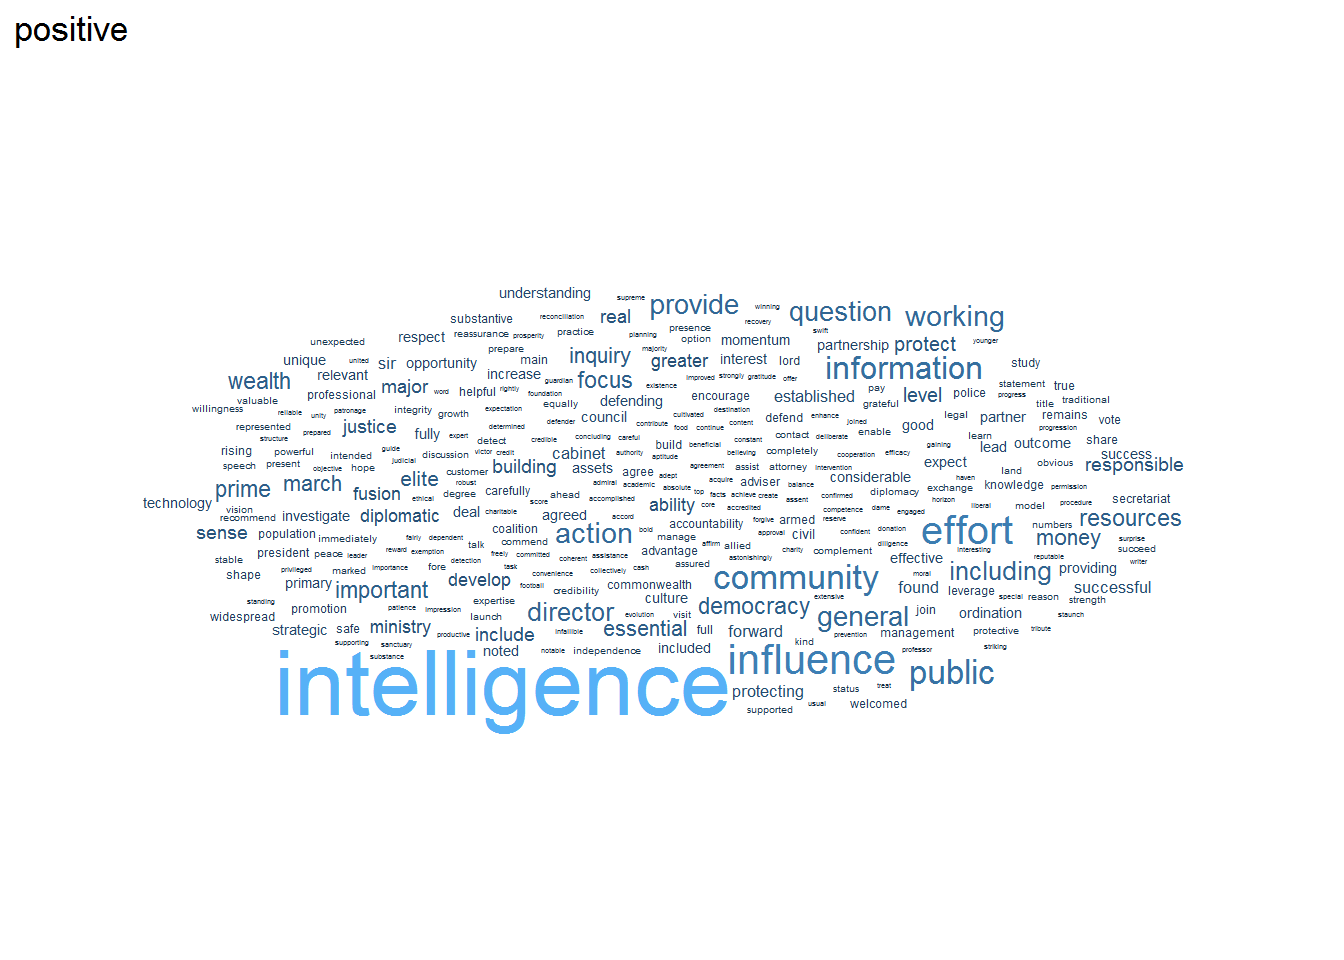
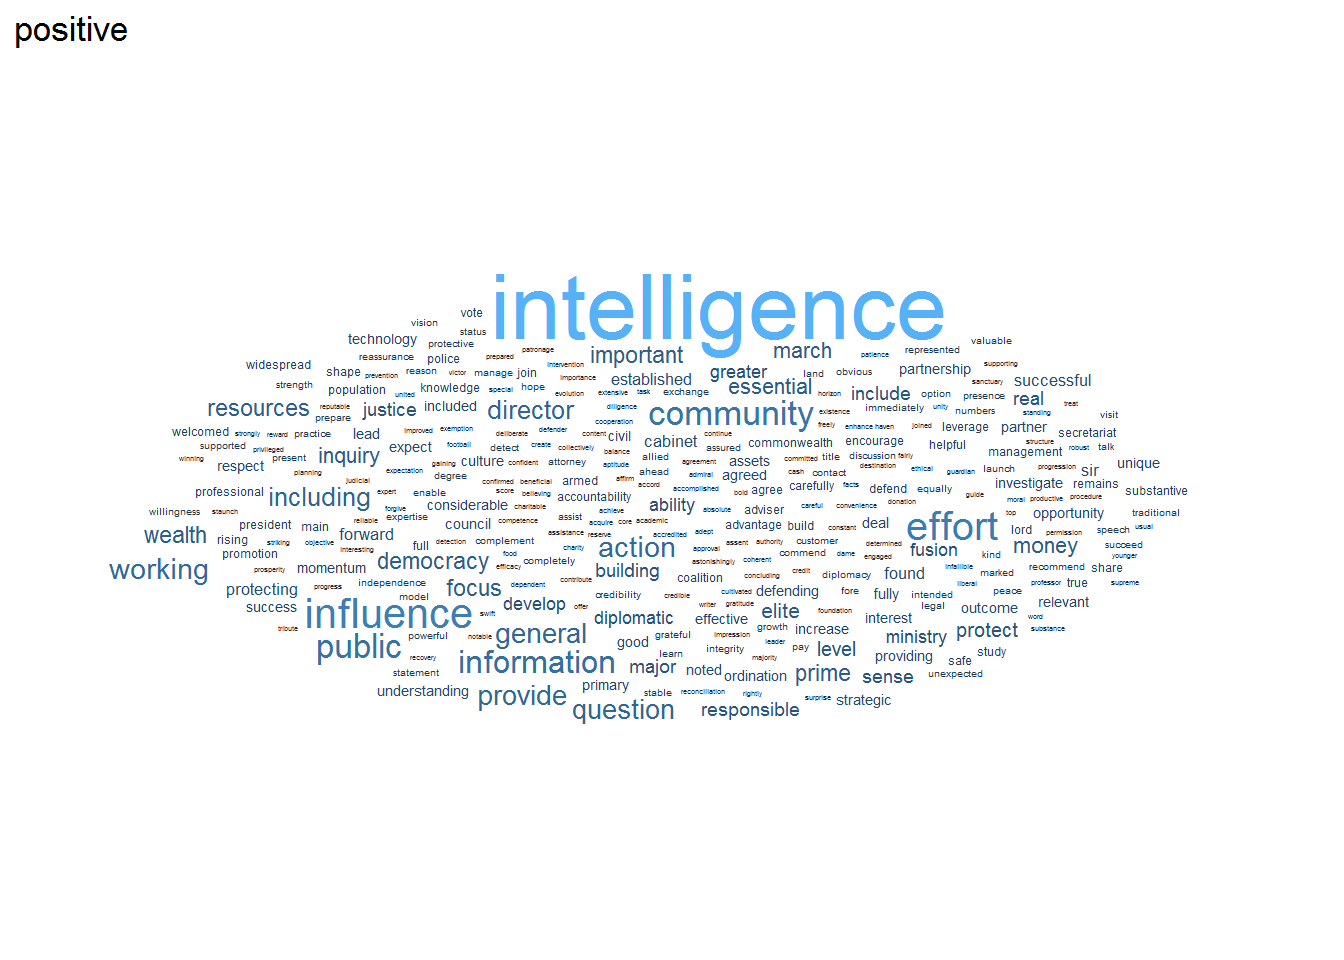
Added cloud

Changed region(s): [[0.0938, 0.2812, 0.875, 0.7812]]

diff --git a/index.html b/index.html
@@ -508,8 +508,8 @@ rr_sentences %&gt;%
   kable()</code></pre>
 <table>
 <colgroup>
-<col width="0%" />
-<col width="99%" />
+<col width="1%" />
+<col width="98%" />
 </colgroup>
 <thead>
 <tr class="header">
@@ -519,24 +519,24 @@ rr_sentences %&gt;%
 </thead>
 <tbody>
 <tr class="odd">
-<td align="right">12</td>
-<td align="left">GCHQ assesses that Russia is a highly capable cyber actor with a proven capability to carry out operations which can deliver a range of impacts across any sector: • Since 2014, Russia has carried out malicious cyber activity in order to assert itself aggressively in a number of spheres, including attempting to influence the democratic elections of other countries – for example, it has been widely reported that the Russians were behind the cyber-enabled ‘hack and leak’ operation to compromise the accounts of members of the French political party En Marche!</td>
+<td align="right">36</td>
+<td align="left">Indeed, the likelihood is that the RIS will learn from their errors, and become more difficult to detect and protect against as a result.</td>
 </tr>
 <tr class="even">
-<td align="right">24</td>
-<td align="left">We have been told that ***.</td>
+<td align="right">45</td>
+<td align="left">This diplomatic response, and the subsequent exposure of the responsible GRU agents, sent a strong message to Russia that such actions would not be tolerated, and provides a platform for the future.</td>
 </tr>
 <tr class="odd">
-<td align="right">28</td>
-<td align="left">86 Written evidence – SIS, 17 December 2018; Intelligence and Security Committee of Parliament Annual Report 2007–2008 Cm 7542.</td>
+<td align="right">23</td>
+<td align="left">In this respect, we note that the Code of Conduct for Members of Parliament requires that MPs register individual payments of more than £100 which they receive for any employment outside the House – this does not apply to the House of Lords, and consideration should be given to introducing such a requirement.</td>
 </tr>
 <tr class="even">
-<td align="right">8</td>
-<td align="left">What does Russia want?</td>
+<td align="right">35</td>
+<td align="left">sensitive current operational material in most cases, it is disappointing that in relation to a subject of such public interest this option has been exercised quite so broadly.</td>
 </tr>
 <tr class="odd">
-<td align="right">42</td>
-<td align="left">135 120.</td>
+<td align="right">19</td>
+<td align="left">37.</td>
 </tr>
 </tbody>
 </table>
@@ -561,7 +561,7 @@ rr_sentences %&gt;%
   mentioned_code = c(&quot;000&quot;, &quot;111&quot;, &quot;001&quot;, &quot;010&quot;,
                      &quot;100&quot;, &quot;011&quot;, &quot;101&quot;, &quot;110&quot;),
   mentioned_services = c(&quot;None mentioned&quot;,
-                        &quot;All&quot;,
+                        &quot;All services mentioned&quot;,
                         &quot;GCHQ&quot;,
                         &quot;MI6/SIS&quot;,
                         &quot;MI5&quot;,
@@ -606,7 +606,7 @@ rr_sentences &lt;- left_join(rr_sentences, service_mentions) %&gt;%
 <td align="right">11</td>
 </tr>
 <tr class="even">
-<td align="left">All</td>
+<td align="left">All services mentioned</td>
 <td align="right">8</td>
 </tr>
 <tr class="odd">
@@ -682,7 +682,7 @@ any_redact_tab %&gt;%
 <td align="right">27.3</td>
 </tr>
 <tr class="odd">
-<td align="left">All</td>
+<td align="left">All services mentioned</td>
 <td align="right">12.5</td>
 </tr>
 <tr class="even">
@@ -715,7 +715,7 @@ any_redact_tab %&gt;%
 <table>
 <colgroup>
 <col width="0%" />
-<col width="3%" />
+<col width="4%" />
 <col width="95%" />
 </colgroup>
 <thead>
@@ -853,7 +853,7 @@ any_redact_tab %&gt;%
 </tr>
 <tr class="even">
 <td align="right">32</td>
-<td align="left">All</td>
+<td align="left">All services mentioned</td>
 <td align="left">However, it is clear that Russia is a high ministerial priority: the Home Secretary has informed us that he meets the Director-General of MI5 “at least once a week, sometimes more, and … in … <strong><em>[redacted]</em></strong> … there has been some discussion around Russia”, 98 and, when asked about how much he speaks to the Chief of SIS and the Director of GCHQ about Russia, the Foreign Secretary replied “<strong><em>[redacted]</em></strong>”, 99 explaining his concern that Russia-related problems – whilst serious – risk crowding out broader global issues.</td>
 </tr>
 <tr class="odd">
@@ -958,7 +958,7 @@ any_redact_tab %&gt;%
 <table>
 <colgroup>
 <col width="0%" />
-<col width="2%" />
+<col width="3%" />
 <col width="96%" />
 </colgroup>
 <thead>
@@ -971,12 +971,12 @@ any_redact_tab %&gt;%
 <tbody>
 <tr class="odd">
 <td align="right">4</td>
-<td align="left">All</td>
+<td align="left">All services mentioned</td>
 <td align="left">The Committee oversees the intelligence and security activities of the UK Intelligence Community, including the policies, expenditure, administration and operations of MI5 (the Security Service), MI6 (the Secret Intelligence Service or SIS) and GCHQ (the Government Communications Headquarters)* and the work of the Joint Intelligence Organisation (JIO) and the National Security Secretariat (NSS) in the Cabinet Office; Defence Intelligence (DI) in the Ministry of Defence; and the Office for Security and Counter-Terrorism (OSCT) in the Home Office.</td>
 </tr>
 <tr class="even">
 <td align="right">9</td>
-<td align="left">All</td>
+<td align="left">All services mentioned</td>
 <td align="left">2 Throughout this report the term ‘Intelligence Community’ is used to refer to the seven organisations that the Committee oversees: the intelligence and security Agencies (MI5, SIS and GCHQ); Defence Intelligence in the Ministry of Defence; the Office for Security and Counter-Terrorism (OSCT) in the Home Office; and the National Security Secretariat (NSS) and Joint Intelligence Organisation (JIO) in the Cabinet Office.</td>
 </tr>
 <tr class="odd">
@@ -1126,7 +1126,7 @@ any_redact_tab %&gt;%
 </tr>
 <tr class="even">
 <td align="right">28</td>
-<td align="left">All</td>
+<td align="left">All services mentioned</td>
 <td align="left">However, by 2006, operational effort was being directed to the fight against international terrorism: in 2006/07, MI5 devoted 92% of its effort to counter-terrorism work, 85 with SIS and GCHQ at 33%.</td>
 </tr>
 <tr class="odd">
@@ -1151,7 +1151,7 @@ any_redact_tab %&gt;%
 </tr>
 <tr class="odd">
 <td align="right">29</td>
-<td align="left">All</td>
+<td align="left">All services mentioned</td>
 <td align="left">On figures alone, it could be said that they took their eye off the ball; nevertheless, the Heads of MI5, SIS, GCHQ and Defence Intelligence all sought to defend against this suggestion.</td>
 </tr>
 <tr class="even">
@@ -1181,7 +1181,7 @@ any_redact_tab %&gt;%
 </tr>
 <tr class="odd">
 <td align="right">32</td>
-<td align="left">All</td>
+<td align="left">All services mentioned</td>
 <td align="left">The Home Secretary holds ministerial responsibility for MI5, the Foreign Secretary for SIS and GCHQ, and the Defence Secretary for Defence Intelligence.</td>
 </tr>
 <tr class="even">
@@ -1196,7 +1196,7 @@ any_redact_tab %&gt;%
 </tr>
 <tr class="even">
 <td align="right">33</td>
-<td align="left">All</td>
+<td align="left">All services mentioned</td>
 <td align="left">In contrast to SIS and GCHQ, MI5 is self-tasking: it prioritises its work against threats to the UK based on its assessment of their severity.</td>
 </tr>
 <tr class="odd">
@@ -1206,7 +1206,7 @@ any_redact_tab %&gt;%
 </tr>
 <tr class="even">
 <td align="right">33</td>
-<td align="left">All</td>
+<td align="left">All services mentioned</td>
 <td align="left">We have been informed that MI5 does, however, align its work on Russia with that of SIS and GCHQ in an agreed tri-Agency approach.</td>
 </tr>
 <tr class="odd">
@@ -1799,6 +1799,25 @@ sentiment_counts </code></pre>
     theme_minimal() + 
     facet_grid(cols = vars(redacted))</code></pre>
 <p><img src="index_files/figure-html/unnamed-chunk-24-1.png" width="576" /></p>
+<pre class="r"><code>excluded_words &lt;- c(&quot;gchq&quot;, &quot;mi6&quot;, &quot;mi5&quot;, &quot;sis&quot;,
+                    &quot;intelligence&quot;, &quot;www.mi5&quot;)
+
+rr_sentiment %&gt;%
+  anti_join(stop_words) %&gt;%
+  mutate(redacted = recode(redacted,
+                           `0` = &quot;No redactions&quot;,
+                           `1` = &quot;One or more redactions&quot;)) %&gt;%
+  group_by(redacted, mentioned_services, word) %&gt;%
+  summarise(n = n()) %&gt;%
+  mutate(prop = n/sum(n)) %&gt;%
+  filter(prop &gt; .005 &amp; !(word %in% excluded_words)) %&gt;%
+  ggplot(aes(label = word, size = log1p(prop), color = redacted)) +
+    scale_size_area(max_size = 10) +
+    geom_text_wordcloud() +
+    theme_minimal() + 
+    facet_grid(cols = vars(redacted),
+               rows = vars(mentioned_services))</code></pre>
+<p><img src="index_files/figure-html/unnamed-chunk-25-1.png" width="576" /></p>
 </div>
 
 
